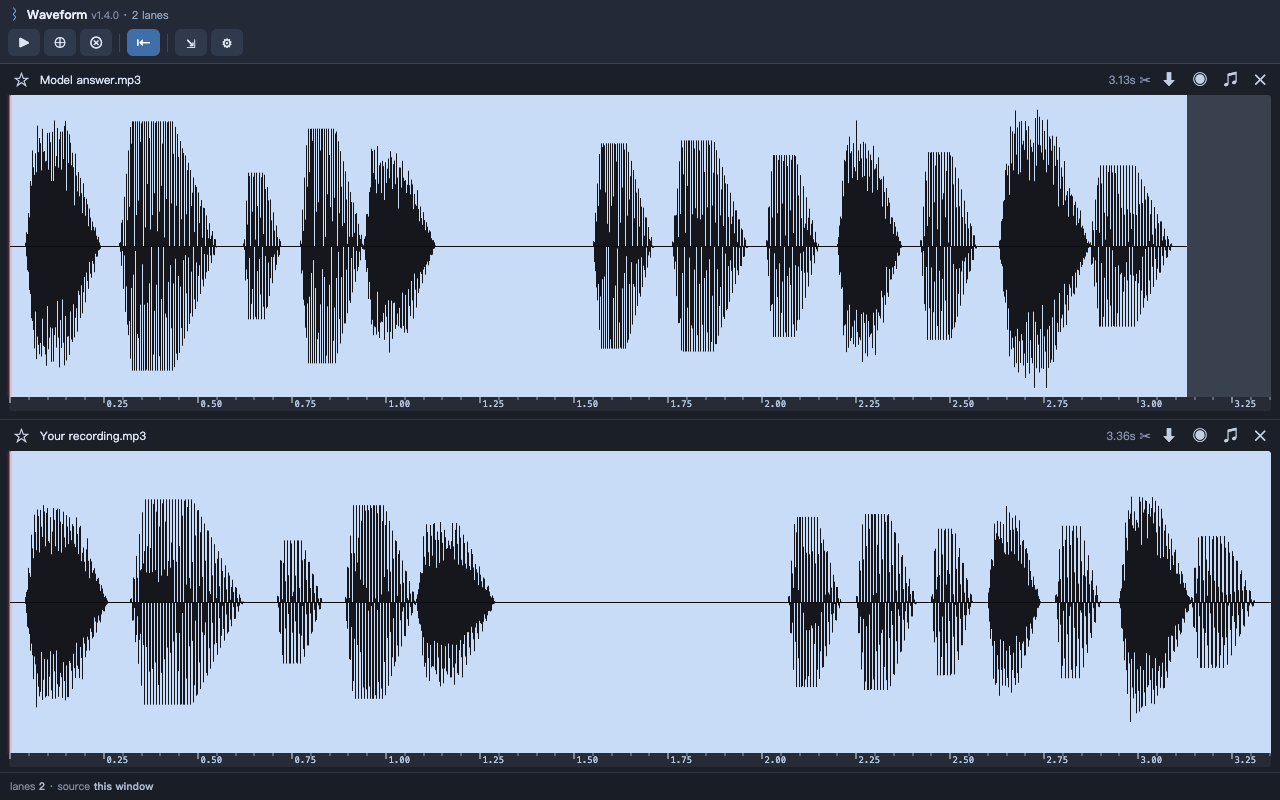
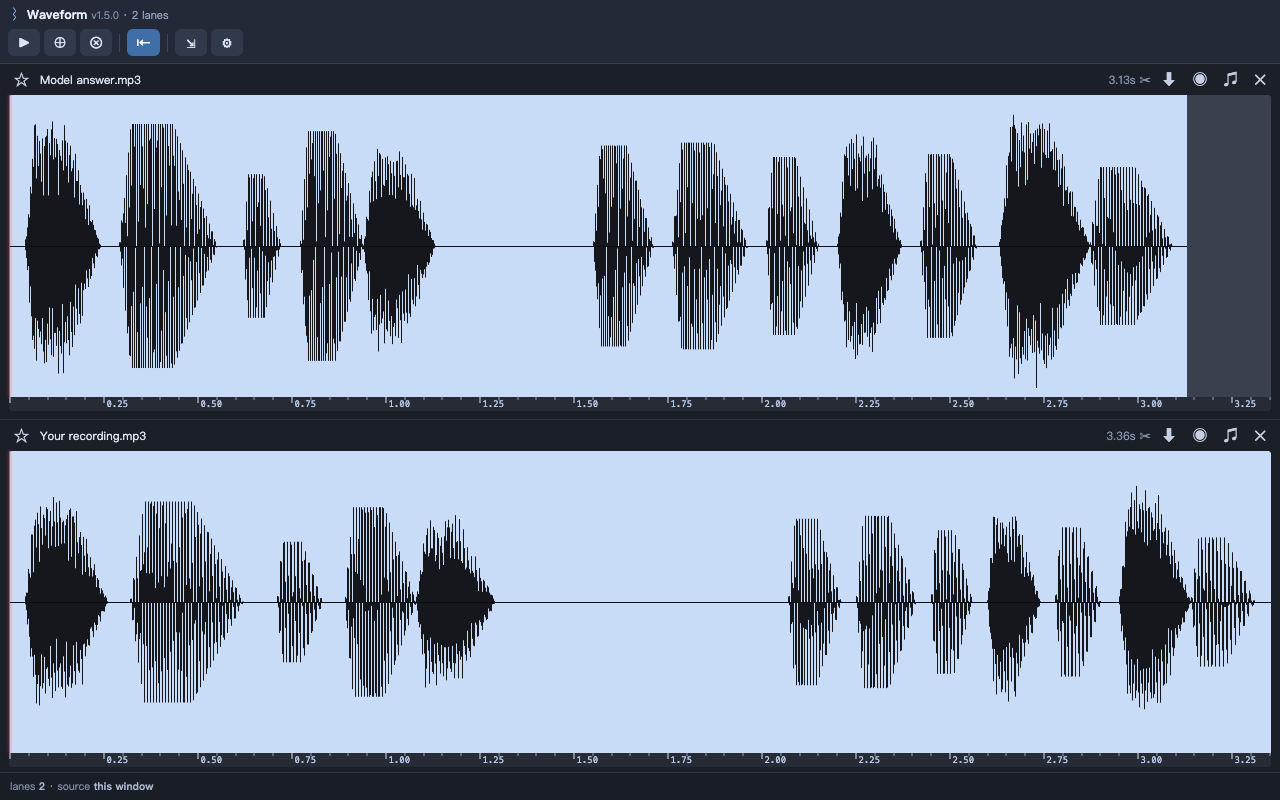
v1.5.0 — drop a fixed lead-in from the front of every clip
Sites put something in front of the audio itself — a beep, a count-in, an
announcement — and it is the same length every time. A new setting, "Skip the
first" (0-10s, default 0 = off), cuts it.

The order is the whole point: the lead-in comes off BEFORE the silence trim,
not after. soundBounds() takes a `fromSec` and starts its search there rather
than searching the whole clip and clamping the answer, because:

- a lead-in beep is sound, so a whole-clip search anchors the onset on the beep
  and clamping afterwards leaves the pause between beep and speech in place;
- the beep is usually louder than the speech, and letting it into the peak that
  normalises the threshold can push the real content below it.

Measured on a fixture of 0.8s beep + 1.5s gap + speech: with the skip at 1.5s
the correct version removes 2.25s, the clamp-afterwards version removes exactly
1.50s. The regression test asserts on that difference, and it fails on the
naive implementation — checked by writing it.

Applies whether or not Align is on: removing a lead-in is "I do not want this
part", which is a different thing from lining lanes up. Changing the setting
re-trims the lanes already on screen without touching their offsets. MIN_KEEP
stops a long skip from emptying a lane.

e2e.js: 70 assertions. Store screenshots regenerated for the new settings row.

diff --git a/src/content.js b/src/content.js
@@ -21,6 +21,7 @@ const DEFAULTS = {
   maxLanes: 0,          // 0 = no cap: every clip gets a lane, and the list scrolls
   autoAlign: true,      // new audio arrives cropped and aligned
   showExtra: false,     // Shift / lane height / Rescan are off the toolbar
+  skipHead: 0,          // seconds of lead-in dropped from every clip (0 = off)
   whenFull: 'keep',     // 'keep' = never discard silently | 'replace' = evict oldest
   sync: true,           // one shared time scale across lanes
   gain: 'auto',         // 'auto' | 1 | 2 | 4 | 8
@@ -31,6 +32,12 @@ const DEFAULTS = {
 let cfg = Object.assign({}, DEFAULTS);
 const PEAK_RES  = 8192;
 const MIN_DUR_LO = 0.5, MIN_DUR_HI = 10;
+/* Lead-in to drop from the front of every clip. Sites commonly put a beep, a
+   count-in or an announcement before the audio itself, and it is the same
+   length every time — so it is a setting, not something to find by ear. */
+const HEAD_LO = 0, HEAD_HI = 10;
+const headSkip = () => Math.max(HEAD_LO, Math.min(HEAD_HI, Number(cfg.skipHead) || 0));
+const MIN_KEEP = 0.5;      // never skip so far that nothing usable is left
 /* Shortest clip worth a lane. User-settable because the right cut-off depends on
    the site: players fire silent primers of a few ms, but ad stingers and UI blips
    can run most of a second and are just as unwanted. */
@@ -380,10 +387,16 @@ function paintAllCursors() { for (const l of lanes.values()) paintCursor(l); }
 /* Align: crop the silence at both ends of every clip, then start them all at
    zero. Cropping is what actually lines the speech up — once the dead air is
    gone, "aligned" and "starts at 0" are the same thing. Click again to undo. */
-function soundBounds(lane) {
+/* `fromSec` is where the search starts: everything before it has already been
+   dropped as lead-in and must not take part. Clamping the answer afterwards is
+   not the same thing — a lead-in beep would still anchor the onset, and its
+   level would still set the threshold the real audio is measured against. */
+function soundBounds(lane, fromSec) {
   const { mins, maxs } = lane.peaks;
   const n = mins.length;
   if (!n) return null;
+  const from = Math.max(0, fromSec || 0);
+  const i0 = Math.max(0, Math.min(n - 1, Math.floor((from / (lane.duration || 1)) * n)));
 
   // Work on a smoothed envelope. A single click or a stray blip in the tail
   // should not keep two seconds of near-silence alive.
@@ -399,7 +412,7 @@ function soundBounds(lane) {
   }
 
   let peak = 0;
-  for (let i = 0; i < n; i++) if (sm[i] > peak) peak = sm[i];
+  for (let i = i0; i < n; i++) if (sm[i] > peak) peak = sm[i];
   if (peak < 1e-5) return null;
 
   const thr = peak * cfg.trimThresh;
@@ -408,13 +421,13 @@ function soundBounds(lane) {
   const run = Math.max(2, Math.round(n / 200));    // ~0.5% of the clip
 
   let a = -1;
-  for (let i = 0; i + run <= n; i++) {
+  for (let i = i0; i + run <= n; i++) {
     let held = true;
     for (let j = i; j < i + run; j++) if (sm[j] <= thr) { held = false; break; }
     if (held) { a = i; break; }
   }
   let b = -1;
-  for (let i = n - 1; i - run >= 0; i--) {
+  for (let i = n - 1; i - run >= i0; i--) {
     let held = true;
     for (let j = i; j > i - run; j--) if (sm[j] <= thr) { held = false; break; }
     if (held) { b = i; break; }
@@ -423,7 +436,7 @@ function soundBounds(lane) {
 
   const dur = lane.duration;
   const pad = 0.05;                                 // keep a hair of air
-  const A = Math.max(0, (a / n) * dur - pad);
+  const A = Math.max(from, (a / n) * dur - pad);
   const B = Math.min(dur, ((b + 1) / n) * dur + pad);
   if (B - A < 0.15) return null;                    // refuse silly-short crops
   return { a: A, b: B };
@@ -434,17 +447,46 @@ function alignOnsets() {
   applyAlign();
 }
 
+/* What a lane keeps: the configured lead-in comes off first, then Align crops
+   the silence out of whatever is left. The order is the whole point — see the
+   comment on soundBounds. Returns null for "keep all of it". */
+function keepRegion(lane) {
+  const dur = lane.duration || 0;
+  if (!dur) return null;
+  // A setting that would leave nothing is ignored, not obeyed.
+  const skip = Math.min(headSkip(), Math.max(0, dur - MIN_KEEP));
+  if (aligned && cfg.trimOnAlign && lane.peaks) {
+    const b = soundBounds(lane, skip);
+    if (b) return b;
+  }
+  return skip > 0 ? { a: skip, b: dur } : null;
+}
+
+function applyTrim(lane) {
+  if (!lane) return;
+  const r = keepRegion(lane);
+  if (r) { lane.trimA = r.a; lane.trimB = r.b; }
+  else { lane.trimA = 0; lane.trimB = null; }
+}
+
+/* The lead-in is dropped whether or not Align is on, so a change to it has to
+   reach every lane that is already on screen. Offsets are left alone: this is
+   not an alignment. */
+function applyHeadSkip() {
+  for (const l of lanes.values()) { applyTrim(l); paintMeta(l); }
+  refreshAll();
+}
+
 /* Bring one freshly-decoded lane into whatever state the panel is already in, so
    audio that shows up later needs no second click. Trimming is per-lane, so only
    the new lane is touched — a lane the user has shifted by hand stays put. The
    offset fallback has no such luxury: lining up onsets is a comparison across
    every lane, so that path re-runs the whole thing. */
 function joinAlign(lane) {
-  if (!aligned || !lane || !lane.peaks) return;
-  if (!cfg.trimOnAlign) { applyAlign(); return; }
-  const b = soundBounds(lane);
-  if (b) { lane.trimA = b.a; lane.trimB = b.b; } else { lane.trimA = 0; lane.trimB = null; }
-  lane.offset = 0;
+  if (!lane || !lane.peaks) return;
+  if (aligned && !cfg.trimOnAlign) { applyAlign(); return; }
+  applyTrim(lane);
+  if (aligned) lane.offset = 0;
   paintMeta(lane);
   refreshAll();
 }
@@ -456,17 +498,16 @@ function applyAlign() {
     l.selA = l.selB = null;
     l.regEl.style.display = 'none';
     l.selEl.textContent = '';
-    if (!on || !l.peaks || !cfg.trimOnAlign) { l.trimA = 0; l.trimB = null; continue; }
-    const b = soundBounds(l);
-    if (b) { l.trimA = b.a; l.trimB = b.b; } else { l.trimA = 0; l.trimB = null; }
+    applyTrim(l);
   }
   // With trimming off, fall back to lining up the onsets by offset instead.
   if (on && !cfg.trimOnAlign) {
     const info = [];
     for (const l of lanes.values()) {
       if (!l.peaks) continue;
-      const b = soundBounds(l);
-      info.push({ lane: l, onset: b ? b.a : 0 });
+      const skip = Math.min(headSkip(), Math.max(0, (l.duration || 0) - MIN_KEEP));
+      const b = soundBounds(l, skip);
+      info.push({ lane: l, onset: b ? b.a : skip });
     }
     if (info.length) {
       const target = Math.max(...info.map(x => x.onset));
@@ -845,6 +886,19 @@ function buildSettings(panel) {
   });
   row('Ignore clips shorter than', minIn,
       'Seconds, ' + MIN_DUR_LO + '\u2013' + MIN_DUR_HI + '. Keeps jingles and the silent primers players fire out of the way');
+
+  const skipIn = mk('input', { type: 'number', className: 'num', min: String(HEAD_LO),
+                               max: String(HEAD_HI), step: '0.5' });
+  skipIn.value = String(cfg.skipHead);
+  skipIn.addEventListener('change', () => {
+    const v = parseFloat(skipIn.value);
+    cfg.skipHead = isFinite(v) ? Math.max(HEAD_LO, Math.min(HEAD_HI, v)) : 0;
+    skipIn.value = String(cfg.skipHead);
+    saveSettings();
+    applyHeadSkip();
+  });
+  row('Skip the first', skipIn,
+      'Seconds cut off the front of every clip \u2014 the beep or count-in before the audio. 0 = keep it');
 
   const autoCb = mk('input', { type: 'checkbox' });
   autoCb.checked = !!cfg.autoAlign;

diff --git a/test/e2e.js b/test/e2e.js
@@ -67,6 +67,14 @@ window.playSet = async (list) => {
 };
 window.playSet(['ref.mp3', 'mine.mp3']);
 </script>`),
+  /* A lead-in that tells the two implementations apart: a loud beep, a gap,
+     then the speech. Cropping the silence first and clamping the answer to the
+     skip afterwards would leave the gap in (start at 1.5s); searching only past
+     the skip finds the speech itself (start at ~2.0s). */
+  'lead.mp3': wav([tone(0.8, 1000, 0.9), sil(1.5),
+                   tone(0.35, 220, 0.5), sil(0.1), tone(0.4, 300, 0.45), sil(0.12),
+                   tone(0.3, 260, 0.5), sil(0.1), tone(0.45, 240, 0.4), sil(0.1),
+                   tone(0.38, 280, 0.46), sil(0.3)]),
   'b.html': Buffer.from('<!doctype html><meta charset="utf-8"><title>quiet page</title><h3>no audio here</h3>'),
   't.html': Buffer.from(`<!doctype html><meta charset="utf-8"><title>web audio only</title>
 <h3>no &lt;audio&gt; element on this page</h3>
@@ -415,6 +423,51 @@ const SR = `(() => { const h = document.getElementById('__wf_viewer_host'); retu
   ok('switching it back on injects the hook into a tab that never had it',
      (await pageC.evaluate(`!!document.getElementById('__wf_viewer_host')`)) === true);
   await pageC.close();
+
+  /* Dropping a fixed lead-in off the front of every clip. */
+  const setField = async (label, v) => {
+    await page.evaluate(`(() => {
+        const row = [...${SR}.querySelectorAll('.sheet .row')]
+          .find(r => r.textContent.indexOf(${JSON.stringify(label)}) >= 0);
+        const i = row.querySelector('input[type=number]');
+        i.value = '${v}'; i.dispatchEvent(new Event('change'));
+      })()`);
+    await sleep(400);
+  };
+  const laneSecs = () => page.evaluate(
+    `parseFloat([...${SR}.querySelectorAll('.lane .meta')][0].textContent)`);
+
+  await page.evaluate(`${SR}.querySelector('[data-act="clear"]').click()`);
+  await sleep(300);
+  await page.evaluate(`window.playSet(['lead.mp3'])`);
+  await sleep(2400);
+  const whole = await laneSecs();
+  ok('the beep counts as sound, so nothing is cropped off the front yet', whole > 4.2, whole);
+
+  await page.evaluate(`${SR}.querySelector('[data-act="settings"]').click()`);
+  const skipField = await page.evaluate(`(() => {
+      const row = [...${SR}.querySelectorAll('.sheet .row')]
+        .find(r => r.textContent.indexOf('Skip the first') >= 0);
+      const i = row && row.querySelector('input[type=number]');
+      return i && { v: i.value, min: i.min, max: i.max }; })()`);
+  ok('the lead-in setting is there: default 0, range 0-10',
+     skipField && skipField.v === '0' && skipField.min === '0' && skipField.max === '10', skipField);
+
+  await setField('Skip the first', '1.5');
+  const skipped = await laneSecs();
+  ok('a 1.5s lead-in comes off', skipped < whole - 1.2, { whole, skipped });
+  // 0.8s beep, 1.5s gap, then the speech. Searching only past the skip lands on
+  // the speech at 2.3s, so about 2.25s comes off. Running the search over the
+  // whole clip and clamping the answer to 1.5s would leave the rest of the gap
+  // in and remove only the 1.5s — which is what this measures.
+  ok('the search starts past the lead-in, so the gap after the beep goes too',
+     whole - skipped > 1.9, { whole, skipped, removed: +(whole - skipped).toFixed(2) });
+  ok('the lane is marked as cropped', await page.evaluate(
+     `[...${SR}.querySelectorAll('.lane .meta')][0].textContent.indexOf('\u2702') >= 0`));
+
+  await setField('Skip the first', '0');
+  ok('setting it back to 0 restores the whole clip', (await laneSecs()) > 4.2, await laneSecs());
+  await page.evaluate(`${SR}.querySelector('[data-act="settings"]').click()`);
 
   /* Switching off has to stop the page-world hook, not just make this side
      ignore it. The hook computes peaks over every sample of every decoded

diff --git a/DESIGN.md b/DESIGN.md
@@ -1,6 +1,6 @@
 # Waveform Viewer — 设计文档
 
-> 版本 1.4.3 · 对应源码 `src/content.js` (1990 行) / `src/page-hook.js` (258 行) / `src/background.js` (254 行)
+> 版本 1.5.0 · 对应源码 `src/content.js` (2044 行) / `src/page-hook.js` (258 行) / `src/background.js` (254 行)
 > 仓库 <https://github.com/EricZhou866/waveform-viewer> · MIT
 
 ---
@@ -128,7 +128,7 @@ const IS_PANEL = /-extension:$/.test(location.protocol);
 
 | 文件 | 行数 | 职责 |
 |------|------|------|
-| `src/content.js` | 1990 | 面板 UI、Lane 管理、时间轴、裁剪、播放、渲染、下载、设置 |
+| `src/content.js` | 2044 | 面板 UI、Lane 管理、时间轴、裁剪、播放、渲染、下载、设置 |
 | `src/page-hook.js` | 258 | 页面世界劫持，4 条发现路径 + 1 条补扫 |
 | `src/background.js` | 254 | 工具栏开关、CORS 代理、独立窗口所有权 |
 | `src/panel.html` | 13 | 独立窗口的空壳，只负责加载 `content.js` |
@@ -537,7 +537,39 @@ function joinAlign(lane) {
 
 按钮的高亮也改成跟 `aligned` 走，不再跟 `isTrimmed()`——`trimOnAlign` 关掉时一条都不会被裁，但状态确实是"已对齐"，用派生状态会显示成没对齐。
 
-### 9.4 关闭裁剪时的降级
+### 9.4 固定前导段（v1.5.0）
+
+设置项 `skipHead`（秒，0–10，默认 0 = 关）。站点经常在正式音频前放一段**每次都一样长**的东西——提示音、倒数、播报题号。这种东西不需要靠算法去找，它的长度是已知的，所以它是一个设置，不是一个检测问题。
+
+**关键在顺序：先去掉前导段，再做静音裁剪。** 实现上体现为 `soundBounds(lane, fromSec)` 的 `fromSec` 参数——搜索**从那里开始**，而不是全段搜完再把结果夹到 `fromSec`：
+
+```js
+function keepRegion(lane) {
+  const skip = Math.min(headSkip(), Math.max(0, dur - MIN_KEEP));
+  if (aligned && cfg.trimOnAlign && lane.peaks) {
+    const b = soundBounds(lane, skip);     // 不是 soundBounds(lane) 之后再夹
+    if (b) return b;
+  }
+  return skip > 0 ? { a: skip, b: dur } : null;
+}
+```
+
+两种写法在真实素材上差别很明显：
+
+| 写法 | 搜索范围 | 结果 |
+|------|---------|------|
+| 全段搜完再夹 | 0 → 末尾 | 起音点落在**提示音**上，夹到 `skip`，提示音后面那段停顿原样留着 |
+| 从 `skip` 开始搜 | `skip` → 末尾 | 起音点落在**真正的说话**上，中间的停顿一并裁掉 |
+
+回归测试用 0.8s 提示音 + 1.5s 停顿 + 说话 的素材量这个差别：`skip = 1.5` 时正确实现切掉 2.25s，错误实现只切掉 1.50s。
+
+还有一处容易漏：`soundBounds` 里算 `peak` 的循环也要从 `i0` 开始。提示音通常比人声响，让它参与归一化会抬高阈值，进而把后面真正的内容判成静音。
+
+**越界保护**：`MIN_KEEP = 0.5`，前导段再长也不会把整条轨切空——设成一个会清空轨的值时直接忽略，而不是照办。
+
+**Align 关掉时也生效**。去掉前导段是“这段我不要”，和“把几条轨对齐”是两件事，所以 `applyTrim()` 不受 `aligned` 约束；改设置走 `applyHeadSkip()`，只重算裁剪，**不碰 offset**——那不是一次对齐。
+
+### 9.5 关闭裁剪时的降级
 
 设置里可以关掉 "Align crops silence"。此时 Align 退化为**按起音点平移对齐**：
 
@@ -826,6 +858,7 @@ if (/INPUT|TEXTAREA|SELECT/.test(tag) || e.target.isContentEditable) return;
 | When full | Keep what is shown | 或 Replace the oldest |
 | Ignore clips shorter than | 2s | 0.5–10s，见 §6.5 |
 | Align on arrival | on | 新音频进来即裁剪对齐，见 §9.3 |
+| Skip the first | 0s | 0–10s，去掉每条音频开头的固定前导段，见 §9.4 |
 | Show extra buttons | off | 显示 `↔` `＋` `－` `⟳`，见 §12.1.1 |
 | Shared time scale | on | 关掉则每条独立缩放 |
 | Vertical zoom | Auto | 或 ×1 / ×2 / ×4 / ×8 |
@@ -1080,6 +1113,7 @@ Firefox 140+ 起，AMO 强制要求：
     "v": 3,                        // schema 版本，用于默认值迁移（见 §6.2.1）
     "maxLanes": 0,                 // 0 = 不限，硬顶 64
     "autoAlign": true,             // 新音频进来即裁剪对齐（见 §9.3）
+    "skipHead": 0,                 // 去掉开头多少秒，0–10，0 = 关（见 §9.4）
     "whenFull": "keep",            // "keep" | "replace"
     "sync": true,
     "gain": "auto",                // "auto" | 1 | 2 | 4 | 8
@@ -1116,7 +1150,7 @@ Firefox 140+ 起，AMO 强制要求：
 | **默认不限条数** | 上限截断的音频在界面上完全不可见，比滚动一长串更糟。代价是内存随会话增长，靠 `LANE_HARD_MAX = 64` 和滚动兜住。 |
 | **满了排队而不是丢弃** | 用户显式设了上限时才会发生。用户明确要求"不要直接丢弃"。代价是需要维护停车场和 `flushParked()`。 |
 | **全局统一增益** | 保住了响度的可比性，代价是特别小声的那条可能看不太清。 |
-| **一份 `content.js` 双模式** | 面板窗口和页内面板永不行为漂移。代价是文件大（1990 行），且到处要判 `IS_PANEL`。 |
+| **一份 `content.js` 双模式** | 面板窗口和页内面板永不行为漂移。代价是文件大（2044 行），且到处要判 `IS_PANEL`。 |
 | **`postMessage` 而非 `wrappedJSObject`** | 可移植。代价是数据必须可克隆，且必须当作不可信输入校验。 |
 | **不用外部库** | 包体 45KB，无供应链风险，商店审核简单。代价是 WAV 编码器、峰值计算、绘图全部手写。 |
 | **Shadow DOM + `!important`** | 页面 CSS 打不进来。代价是调试时得展开 shadow root。 |
@@ -1302,9 +1336,9 @@ npm i -D playwright && npx playwright install chromium
 node test/e2e.js
 ```
 
-64 项断言，覆盖：面板注入与版本号显示、Lane 区滚动、时长下限（默认 1s 下过滤 0.30s / 0.70s，调到 0.5s 后 0.70s 进来、0.30s 仍被挡，调到 2s 后已存在的 0.70s 轨被清掉）、设置项默认值与范围、设置底部的版本与仓库链接、grip 拖拽改面板尺寸并跨刷新持久化、**默认设置下 6 条音频全部成轨且列表在面板自身高度上滚动、队列为空**、音频到达即裁剪对齐（含关掉 Align 后新音频保持全长、再打开时连后到的那条一起裁）、八个把手的 cursor 取值、拖西边/北边时对边不动、grip 只改高度、SE 角同时改两边、尺寸跨刷新持久化、老 profile 的两档设置迁移、开关打开时只有被点击的标签页出面板（其他标签页不出）、关闭状态下新开的页面既没有面板也没被注入 hook、关闭后已注入的 hook 会闭嘴（在页面里数 `__wf` 消息）、重新打开后它会醒过来、工具栏全为图标且 Play/Files/Clear 相邻、扩展按钮默认隐藏且能由设置开关、折叠后宽度收缩、✕ 关闭面板并带走轨、重新打开时 hook 会补进那些从没注入过的标签页、弹出窗口 → `⇲ Dock` → 页内面板回来的整条回路、以及全程零 JS 错误。
+70 项断言，覆盖：面板注入与版本号显示、Lane 区滚动、时长下限（默认 1s 下过滤 0.30s / 0.70s，调到 0.5s 后 0.70s 进来、0.30s 仍被挡，调到 2s 后已存在的 0.70s 轨被清掉）、设置项默认值与范围、设置底部的版本与仓库链接、grip 拖拽改面板尺寸并跨刷新持久化、**默认设置下 6 条音频全部成轨且列表在面板自身高度上滚动、队列为空**、音频到达即裁剪对齐（含关掉 Align 后新音频保持全长、再打开时连后到的那条一起裁）、八个把手的 cursor 取值、拖西边/北边时对边不动、grip 只改高度、SE 角同时改两边、尺寸跨刷新持久化、老 profile 的两档设置迁移、开关打开时只有被点击的标签页出面板（其他标签页不出）、关闭状态下新开的页面既没有面板也没被注入 hook、关闭后已注入的 hook 会闭嘴（在页面里数 `__wf` 消息）、固定前导段的裁剪（含用来区分两种实现的那条断言：提示音后面的停顿也要一并裁掉）、重新打开后它会醒过来、工具栏全为图标且 Play/Files/Clear 相邻、扩展按钮默认隐藏且能由设置开关、折叠后宽度收缩、✕ 关闭面板并带走轨、重新打开时 hook 会补进那些从没注入过的标签页、弹出窗口 → `⇲ Dock` → 页内面板回来的整条回路、以及全程零 JS 错误。
 
-v1.4.3 全部通过，AMO linter 0/0/0。
+v1.5.0 全部通过，AMO linter 0/0/0。
 
 两个写测试时踩的坑：
 
@@ -1464,4 +1498,4 @@ npm run publish:chrome
 
 ---
 
-*文档对应 v1.4.3。修改代码时请同步更新本文档中受影响的小节（含 §3.2 的行数表与本行的版本号）。*
+*文档对应 v1.5.0。修改代码时请同步更新本文档中受影响的小节（含 §3.2 的行数表与本行的版本号）。*

diff --git a/README.md b/README.md
@@ -94,6 +94,7 @@ brings it back.
 | Max lanes | 0 — no limit | Every clip gets a lane and the list scrolls. Set a number (1–64) if you would rather cap it; past the cap, new audio waits in a queue instead of being thrown away |
 | Ignore clips shorter than | 2 s | Anything shorter never gets a lane (0.5–10 s). Players fire silent primers before playback, and sites throw in UI blips and ad stingers; without a floor those crowd out what you are actually comparing. Lower it if you are working with very short clips — lanes already on screen are re-checked as soon as you change it |
 | Align on arrival | on | New audio comes in cropped to its sound and starting at zero, with no click. Turn it off to see clips at full length |
+| Skip the first | 0 s | Cuts a fixed lead-in off the front of every clip (0–10 s) — the beep, count-in or announcement a site plays before the audio itself. It comes off *before* the silence is cropped, so the pause after the beep goes with it |
 | Show extra buttons | off | Adds `↔`, `＋`, `－` and `⟳` to the toolbar |
 | When full | Keep what is shown | Only applies once you set a limit. New audio is **parked, never discarded** — it slots in as soon as you close a lane or raise the limit. Switch to "Replace the oldest" for the old behaviour |
 | Shared time scale | on | Lanes use one ruler so they line up vertically |
